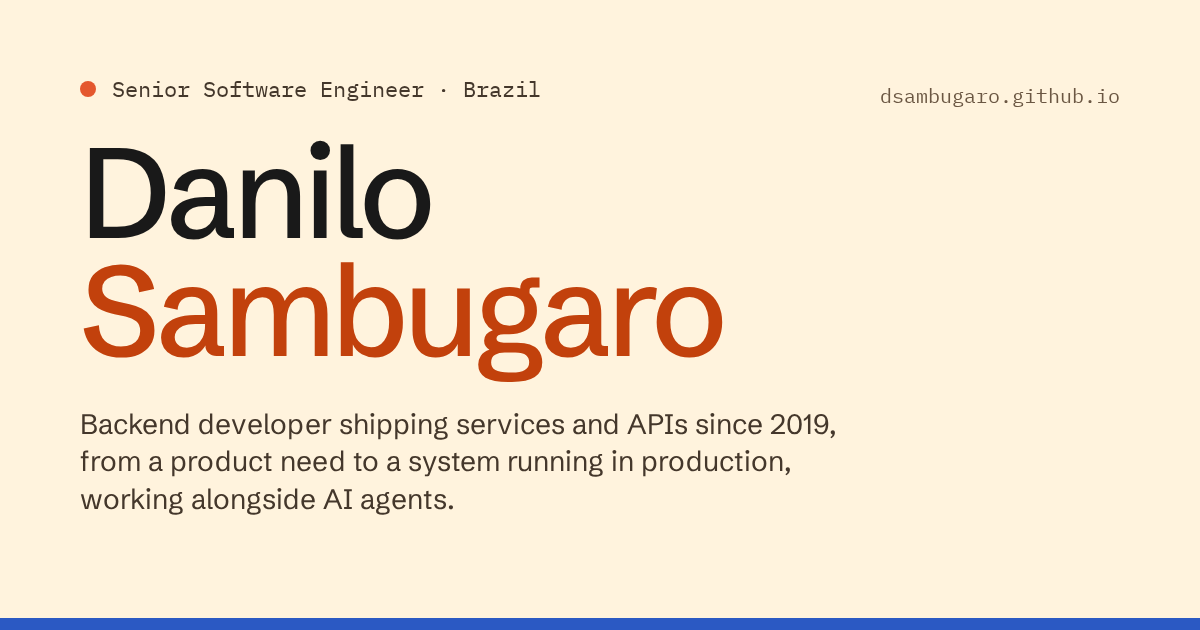
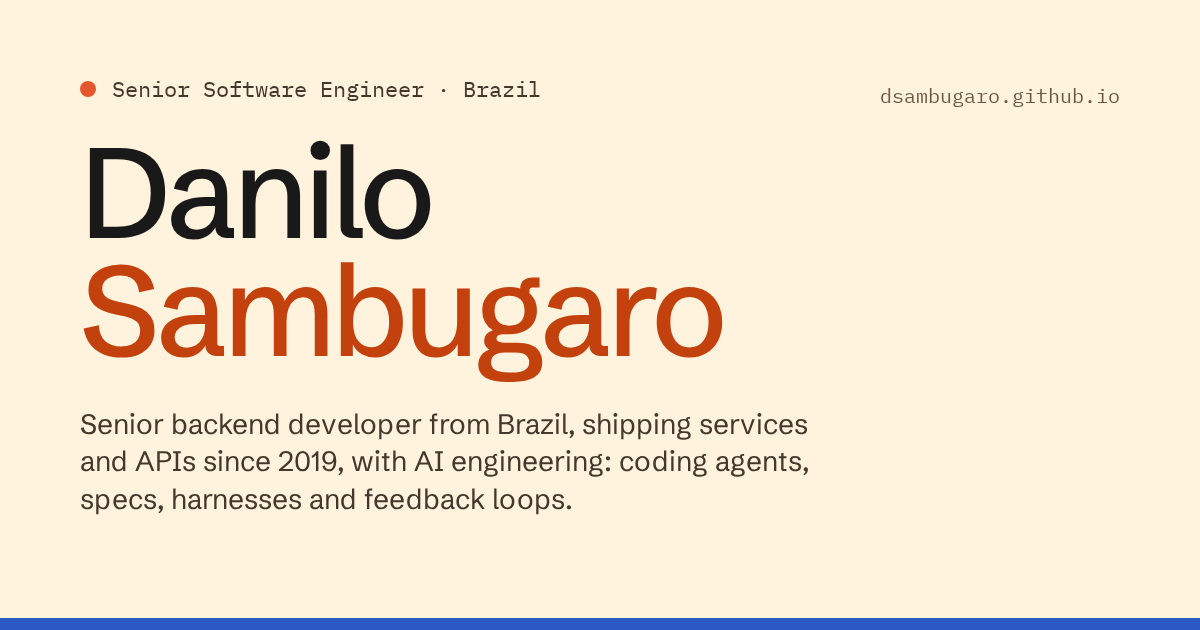
feat: mirror hero (photo left, text right) and strengthen SEO
- Photo on the left edge, name and text on the right edge, open space between.
- Preload the two main font files (removes a 0.26 CLS on the large name).
- Titles and descriptions now carry backend + AI engineering terms;
  meta keywords and author; JSON-LD ProfilePage > Person with knowsAbout.

Changed region(s): [[0.0617, 0.6333, 0.7092, 0.8143]]

diff --git a/src/i18n/content.ts b/src/i18n/content.ts
@@ -9,12 +9,24 @@ export const person = {
   github: 'https://github.com/dsambugaro',
   linkedin: 'https://www.linkedin.com/in/dsambugaro/',
   site: 'https://dsambugaro.github.io',
+  // Used in the JSON-LD Person (knowsAbout). Topics, not tools.
+  knowsAbout: [
+    'Software engineering',
+    'Backend development',
+    'API design',
+    'Microservices',
+    'Databases',
+    'AI engineering',
+    'Agentic software development',
+    'Spec engineering',
+    'Harness engineering',
+  ],
 };
 
 export type Copy = {
   htmlLang: string;
   ogLocale: string;
-  meta: { title: string; description: string };
+  meta: { title: string; description: string; keywords: string[] };
   langSwitch: { label: string; short: string };
   theme: { toDark: string; toLight: string };
   role: string;
@@ -29,9 +41,24 @@ const en: Copy = {
   htmlLang: 'en',
   ogLocale: 'en_US',
   meta: {
-    title: 'Danilo Sambugaro, Senior Software Engineer',
+    title: 'Danilo Sambugaro · Senior Software Engineer, Backend & AI',
     description:
-      'Backend developer shipping services and APIs since 2019, from a product need to a system running in production, working alongside AI agents.',
+      'Senior backend developer from Brazil, shipping services and APIs since 2019, with AI engineering: coding agents, specs, harnesses and feedback loops.',
+    keywords: [
+      'Danilo Sambugaro',
+      'senior software engineer',
+      'backend developer',
+      'backend engineer',
+      'software developer',
+      'API development',
+      'microservices',
+      'AI engineering',
+      'agentic development',
+      'AI coding agents',
+      'spec engineering',
+      'harness engineering',
+      'Brazil',
+    ],
   },
   langSwitch: { label: 'Ler em português', short: 'PT' },
   theme: { toDark: 'Switch to dark theme', toLight: 'Switch to light theme' },
@@ -48,9 +75,24 @@ const pt: Copy = {
   htmlLang: 'pt-BR',
   ogLocale: 'pt_BR',
   meta: {
-    title: 'Danilo Sambugaro, Senior Software Engineer',
+    title: 'Danilo Sambugaro · Senior Software Engineer, Backend e IA',
     description:
-      'Desenvolvedor backend que constrói serviços e APIs desde 2019, da necessidade de produto ao sistema rodando em produção, junto com agentes de IA.',
+      'Desenvolvedor backend sênior no Brasil, colocando serviços e APIs em produção desde 2019, com engenharia de IA: agentes, specs, harnesses e loops de feedback.',
+    keywords: [
+      'Danilo Sambugaro',
+      'engenheiro de software sênior',
+      'desenvolvedor backend',
+      'engenheiro backend',
+      'desenvolvedor de software',
+      'desenvolvimento de APIs',
+      'microsserviços',
+      'engenharia de IA',
+      'desenvolvimento com agentes de IA',
+      'agentes de IA',
+      'spec engineering',
+      'harness engineering',
+      'Brasil',
+    ],
   },
   langSwitch: { label: 'Read in English', short: 'EN' },
   theme: { toDark: 'Mudar para o tema escuro', toLight: 'Mudar para o tema claro' },
